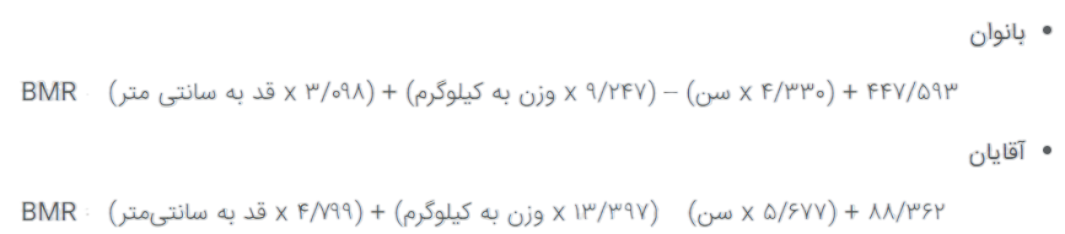
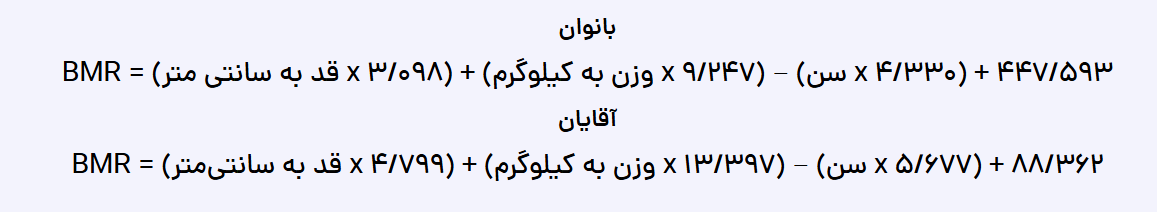
[BmrCalculator]- Add Responsive

diff --git a/src/pages/BmrCalculator/BmrCalculator.jsx b/src/pages/BmrCalculator/BmrCalculator.jsx
@@ -20,18 +20,7 @@ function BmrCalculator() {
                 بدانید که بدن شما حتی هنگام استراحت، با انجام عملکردهای اساسی
                 برای حفظ زندگی، کالری میسوزاند
               </p>
-              <div className="bmr__formula">
-                <span className="bmr__formula-title">بانوان</span>
-                <span className="bmr__formula-text">
-                  ۴۴۷/۵۹۳ + (۴/۳۳۰ x سن) – (x ۹/۲۴۷ وزن به کیلوگرم) + (۳/۰۹۸ x
-                  قد به سانتی متر) = BMR
-                </span>
-                <span className="bmr__formula-title">آقایان</span>
-                <span className="bmr__formula-text">
-                  ۸۸/۳۶۲ + (۵/۶۷۷ x سن) – (x ۱۳/۳۹۷ وزن به کیلوگرم) + (۴/۷۹۹ x
-                  قد به سانتیمتر) = BMR
-                </span>
-              </div>
+              <img src="./images/bmr.png" alt="bmr" className="bmr-main__formula" />
               <p className="bmr__info-text">
                 اگر به دنبال به دست آوردن کالری مورد نیاز خود هستید، باید ضریب
                 فعالیتتان را در نتیجه بیامآر خود ضرب کنید. برای محاسبه این

diff --git a/src/custom.css b/src/custom.css
@@ -274,6 +274,13 @@ a {
     width: 50%;
     object-fit: contain;
   }
+  /* * BMR Component */
+  .bmr__info-text {
+    width: 88%;
+  }
+  .bmr__info-title {
+    margin-right: 1rem;
+  }
 }
 
 @media (max-width: 992px) {
@@ -366,6 +373,13 @@ a {
   .article-info__share {
     height: 6rem;
   }
+  /* * BMR Component */
+  .bmr__info__list {
+    text-align: center;
+  }
+  .bmr-title{
+    font-size: 2rem;
+  }
 }
 
 @media (max-width: 576px) {
@@ -405,6 +419,22 @@ a {
   /* * Articles Component */
   .articles-wrapper__menu div {
     margin-bottom: 1.2rem;
+  }
+  /* * BMR Component */
+  .bmr__inputs input {
+    width: 18rem;
+  }
+  .bmr__inputs select {
+    width: 18rem;
+  }
+  .bmr__inputs-select {
+    font-size: 1rem !important;
+  }
+  .bmr__info__item {
+    font-size: 1rem;
+  }
+  .bmr__info-text-formul{
+    font-size: 1rem;
   }
 }
 
@@ -465,10 +495,10 @@ a {
   .bmi__logic__inputs__height-label {
     font-size: 2rem;
   }
-  .bmi__title{
+  .bmi__title {
     font-size: 2.4rem;
   }
-  .bmi__info-title{
+  .bmi__info-title {
     text-align: center;
   }
 }

diff --git a/src/pages/BmrCalculator/BmrCalculator.css b/src/pages/BmrCalculator/BmrCalculator.css
@@ -19,29 +19,16 @@
 
 .bmr__info-text {
   line-height: 1.4rem;
-  margin-top: 1rem;
   text-align: justify;
   font-size: 1.2rem;
   text-transform: capitalize;
+  width: 98%;
+  margin: 1rem auto;
 }
 
-.bmr__formula {
-  margin-bottom: 1rem;
-  display: flex;
-  align-items: center;
-  flex-direction: column;
-}
-.bmr__formula span {
-  margin-bottom: 1rem;
-}
-.bmr__formula-text {
-  font-size: 1.4rem;
-}
-
-.bmr__formula-title {
-  font-size: 1.2rem;
-  font-weight: bold;
-  font-family: "dana-bold", Courier, monospace;
+.bmr-main__formula{
+  margin: 1rem auto;
+  width: 100%;
 }
 
 .bmr__info__list {
